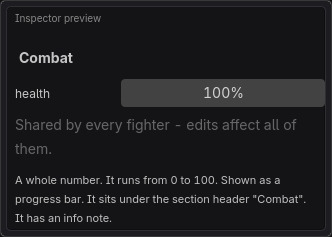
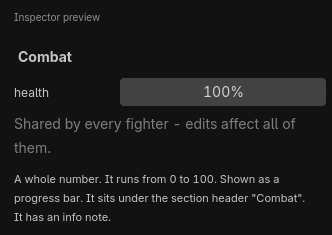
fix(inspector): the hover card of an exported variable takes the editor's tooltip fill, so it reads in the light theme

Changed region(s): [[0.0, 0.0, 1.0, 1.0], [0.5422, 0.5064, 0.9036, 0.566], [0.0602, 0.2085, 0.241, 0.2681]]

diff --git a/CHANGELOG.md b/CHANGELOG.md
@@ -4,6 +4,10 @@ The work not yet released is listed first, under `[Unreleased]`. Each released v
 
 ## [Unreleased]
 
+### Fixed: the hover card of an exported variable is readable in the light editor theme
+
+The card that opens when you rest the pointer on an exported variable was a dark panel in every theme, with the words inside it inked for the paler fill the card itself takes from the editor, so in the light theme the small caption and the plain sentence were grey on dark grey and the caption all but disappeared. The card now sits on the editor's own tooltip panel, as the sheet's head card does, and takes that panel's fill, so it is pale in the light theme and dark in the dark one; the note line under the field is moved just far enough from the Inspector's quiet grey to keep the same contrast as the sentence (about 4.6 to 1 in both themes, where it was 4.0 and 3.2). Nothing was cut off: the line at the top of the old light picture was the caption, inked too close to its ground to see. The guide's picture of the card is retaken.
+
 ### Fixed: "Convert to <your action>" is offered for a call on a scene class
 
 Right-clicking a hand-written call such as `$Enemy.take_damage(25.0)` is meant to offer "Convert to Enemy ▸ Take Damage" when the call matches one of your project's actions, but it never did for a class that lives in a scene: the action it would convert to carries one extra "On node" field (the receiver), so its field count never equalled the call's argument count and the match was always refused. The offer now counts the arguments without that receiver field, and converting fills "On node" with the receiver the call already had and the other fields with its arguments, so the row writes exactly the line it replaced. The matching rules are unchanged: one candidate or none, a plain reference as the receiver, and the argument count must agree. The guide's picture of this menu is retaken from a real right click on the action cell.
